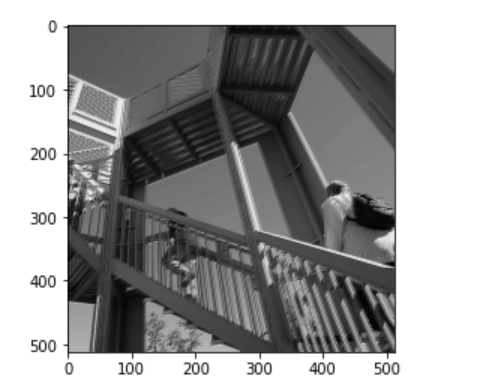
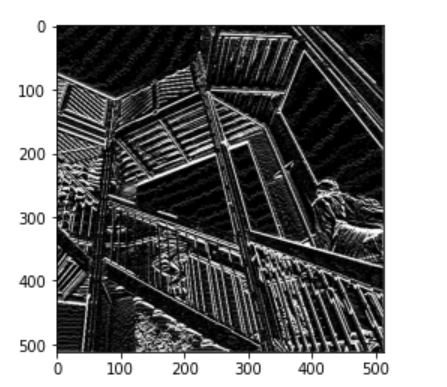
update

diff --git a/Week_2/Thurs2.md b/Week_2/Thurs2.md
@@ -1,18 +1,25 @@
 ### Wednesday No Class Response 
 Modify the existing filter and if needed the associated weight in order to apply your new filters to the image 3 times. Plot each result, upload them to your response, and describe how each filter transformed the existing image as it convolved through the original array and reduced the object size.
-- ![one](C:\Users\corii\WebstormProjects\data_310\images\plot1.PNG)
-- ![two](C:\Users\corii\WebstormProjects\data_310\images\plot2.PNG)
-- ![three](C:\Users\corii\WebstormProjects\data_310\Week_2\plot3.PNG)
+    filter = [ [-400, 0, -400], [0, 0, 0], [1, 2, 1]]
+    - the first filter I wanted to see what would happen with bigger numbers, it seems that it removed ALL information to including the straight lines to leave us with a black screen so, going to high is not helpful when it comes to convolutions.
+    - ![image](plot1.PNG)
+    filter = [ [-45, 0, 45], [-4, 0, 4], [-7, 0, 7]]
+    - the second filter was the best in my opinion, it highlighted straight lines so detailed that even wiggly lines were highlighted, while I'm not sure if it would be best for a model it was the best filter. 
+    - ![image2](images/plot2.PNG)
+    filter = [ [0, 1, 0], [1, -4, 1], [0, 1, 0]]
+    - the third filter was okay it did highlight straight lines, but it left out a lot of detail, and I don't think it would do very well outside a training data set. 
+    - ![image3] (images/plot3.PNG)
+  
 - Each different filter learns how to isolate and take out specific features within them that are deemed important, this in turn changes the data set so that different details in the photo are emphasized. 
 
 What are you functionally accomplishing as you apply the filter to your original array? 
 - I am implementing 3 arrays and 3 items as a filter to a image that I turned into an array to filter out specific features so that my computer can identify these features to better train my model. 
 
 Why is the application of a convoling filter to an image useful for computer vision? 
-- This is usual because it helps save memory and time when a machine is attempting to fit a model because instead of trying to account for a large number of variable it is isolating similar features and running a model based off of the features that are seen consistently. 
+- This is usual because it helps save memory and time when a machine is attempting to fit a model because instead of trying to account for many variable it is isolating similar features and running a model based off of the features that are seen consistently. 
 
 Another useful method is pooling. Apply a 2x2 filter to one of your convolved images, and plot the result.
-- ![plot4](C:\Users\corii\WebstormProjects\data_310\images\plot4.PNG)
+- ![plot4](images/pooling_image.PNG)
 
 In effect what have you accomplished by applying this filter? Does there seem to be a logic (i.e. maximizing, averaging or minimizing values?) associated with the pooling filter provided in the example exercise (convolutions & pooling)? Did the resulting image increase in size or decrease? Why would this method be useful?
 - I have found the least amount of the biggest pixels in the image after a series of iteration. Yes, there is logic because we are getting the smallest amount of the biggest value for this pooling feature. No in fact it was 1/4th in size of the old image. This can be useful when we don't want to lose any important information but want to filter out what's not needed for time and memory purposes. 
